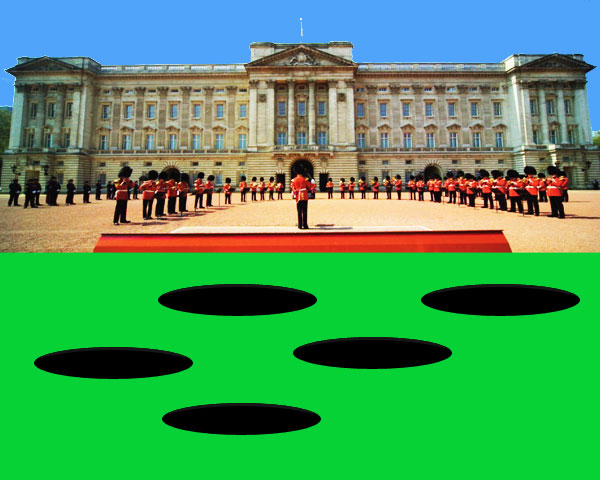
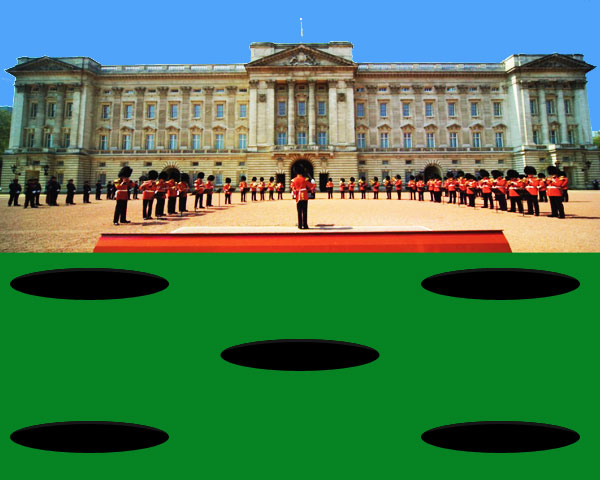
new mole added, rearrange board for no overlaps

diff --git a/styles.css b/styles.css
@@ -121,31 +121,36 @@ div.mole.explode {
 
 div#moleOne {
 	background-image:url(camilla.png);
-	top:167px;
-	left:18px;
+	top:89px;
+	left:-6px;
 }
 div#moleTwo {
 	background-image:url(prince.png);
-	top:223px;
-	left:138px;
+	top:239px;
+	left:1px;
 }
 div#moleThree {
 	background-image:url(queen.png);
-	top:157px;
-	left:272px;
+	top:159px;
+	left:206px;
 }
 div#moleFour {
 	background-image:url(king.png);
-	top:104px;
-	left:399px;
+	top:86px;
+	left:405px;
+}
+div#moleFive {
+	background-image:url(william.png);
+	top:252px;
+	left:414px;
 }
 
 .score {
-width:100px;
-position:relative;
-left:20;
-top:20;
-color:white;
+	width:100px;
+	position:relative;
+	left:20;
+	top:20;
+	color:white;
 }
 
 

diff --git a/index.html b/index.html
@@ -14,7 +14,7 @@
 	<div id="container">
 		
 		<div class="picture">
-						<div class="score">Score:<span> _</span></div>
+			<div class="score"><h3>Score: <span></span></h3></div>
 
 		<div id="moleOne" class="mole">
 		</div>	
@@ -26,6 +26,9 @@
 		</div>	
 		
 		<div id="moleFour" class="mole">
+		</div>	
+		
+		<div id="moleFive" class="mole">
 		</div>	
 		
 
